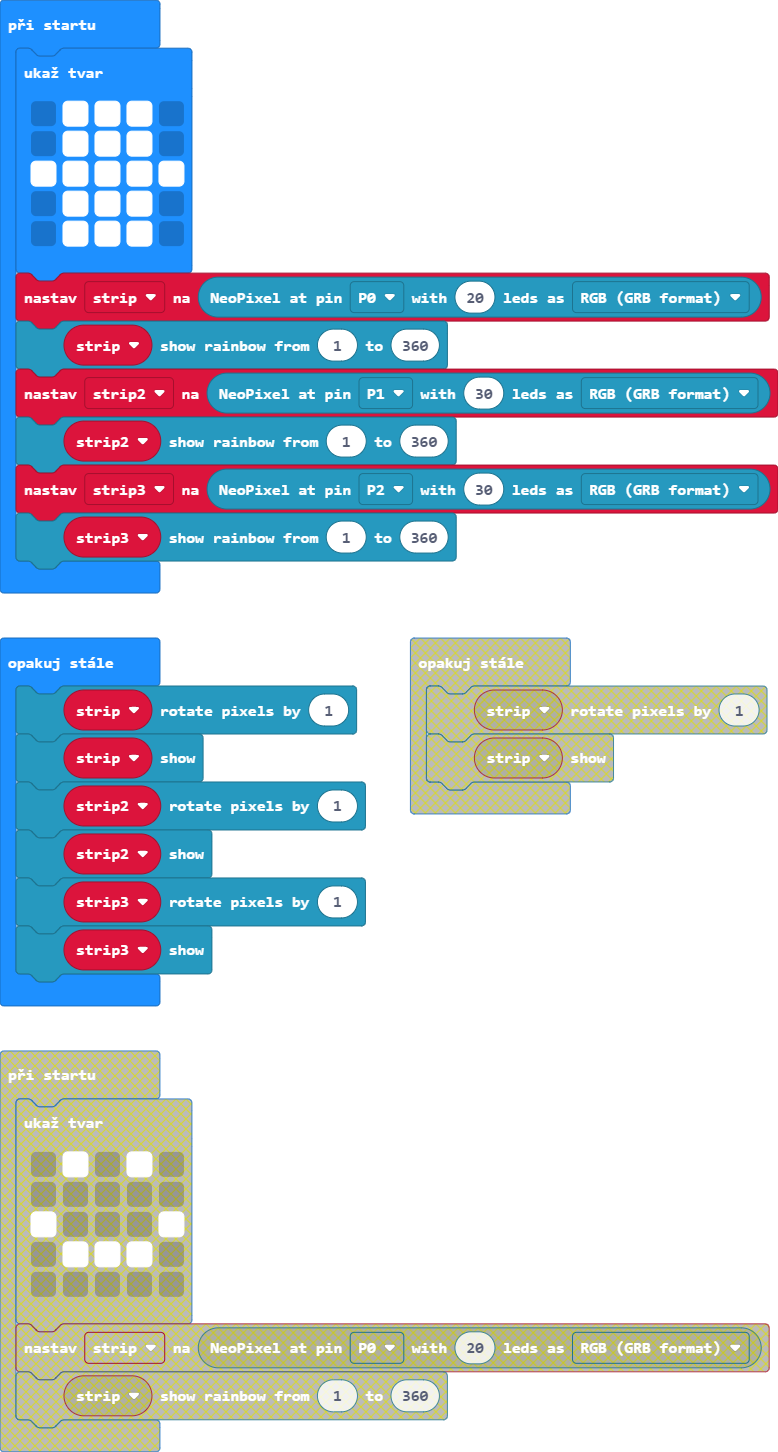
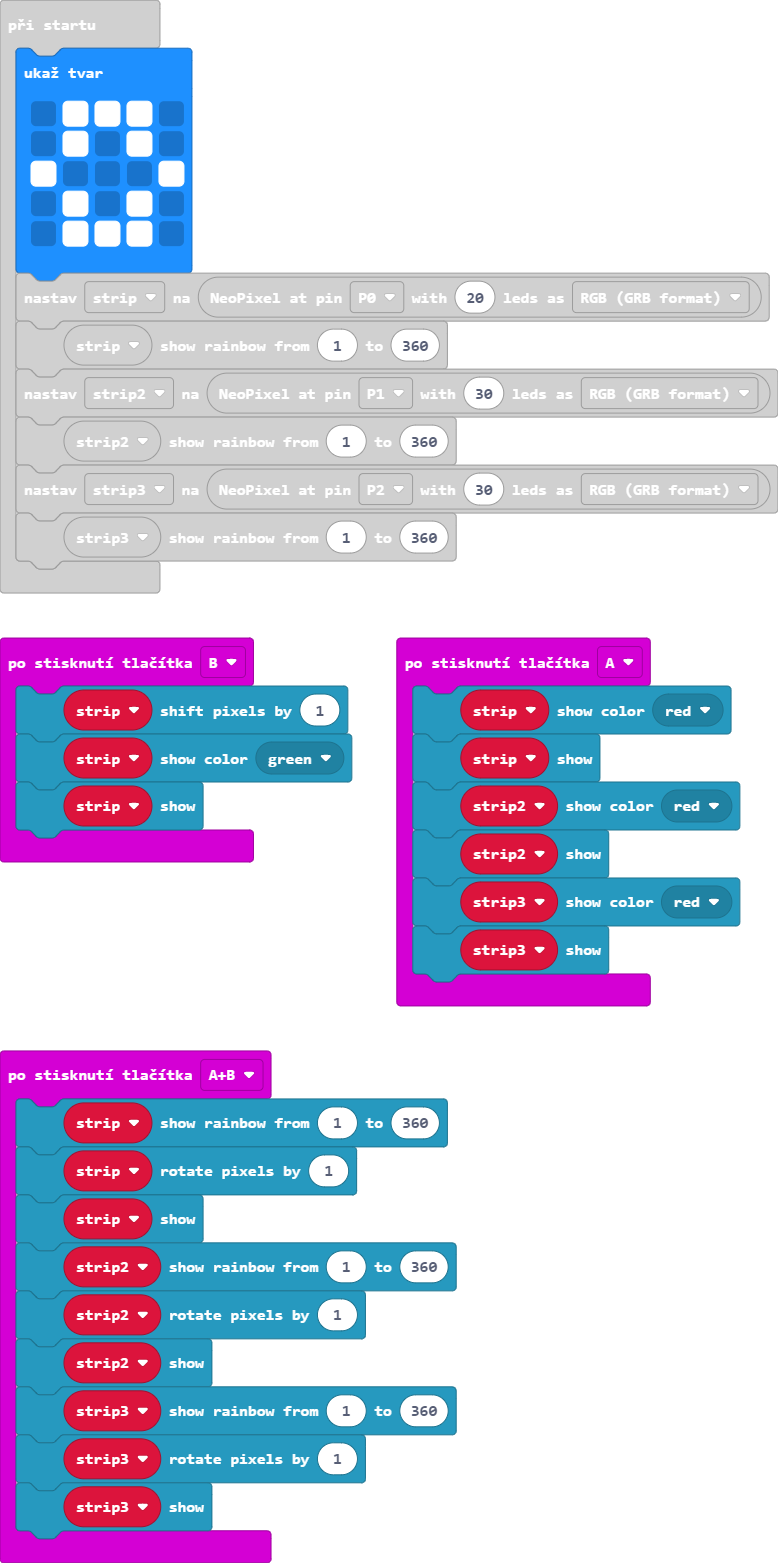
Aktualizovat pxt.json, main.blocks, main.ts

diff --git a/main.ts b/main.ts
@@ -1,15 +1,42 @@
+input.onButtonPressed(Button.A, function () {
+    strip.showColor(neopixel.colors(NeoPixelColors.Red))
+    strip.show()
+    strip2.showColor(neopixel.colors(NeoPixelColors.Red))
+    strip2.show()
+    strip3.showColor(neopixel.colors(NeoPixelColors.Red))
+    strip3.show()
+})
+input.onButtonPressed(Button.AB, function () {
+    strip.showRainbow(1, 360)
+    strip.rotate(1)
+    strip.show()
+    strip2.showRainbow(1, 360)
+    strip2.rotate(1)
+    strip2.show()
+    strip3.showRainbow(1, 360)
+    strip3.rotate(1)
+    strip3.show()
+})
+input.onButtonPressed(Button.B, function () {
+    strip.shift(1)
+    strip.showColor(neopixel.colors(NeoPixelColors.Green))
+    strip.show()
+})
+let strip3: neopixel.Strip = null
+let strip2: neopixel.Strip = null
+let strip: neopixel.Strip = null
 basic.showLeds(`
     . # # # .
-    . # # # .
-    # # # # #
-    . # # # .
+    . # . # .
+    # . . . #
+    . # . # .
     . # # # .
     `)
-let strip = neopixel.create(DigitalPin.P0, 20, NeoPixelMode.RGB)
+strip = neopixel.create(DigitalPin.P0, 20, NeoPixelMode.RGB)
 strip.showRainbow(1, 360)
-let strip2 = neopixel.create(DigitalPin.P1, 30, NeoPixelMode.RGB)
+strip2 = neopixel.create(DigitalPin.P1, 30, NeoPixelMode.RGB)
 strip2.showRainbow(1, 360)
-let strip3 = neopixel.create(DigitalPin.P2, 30, NeoPixelMode.RGB)
+strip3 = neopixel.create(DigitalPin.P2, 30, NeoPixelMode.RGB)
 strip3.showRainbow(1, 360)
 basic.forever(function () {
     strip.rotate(1)
